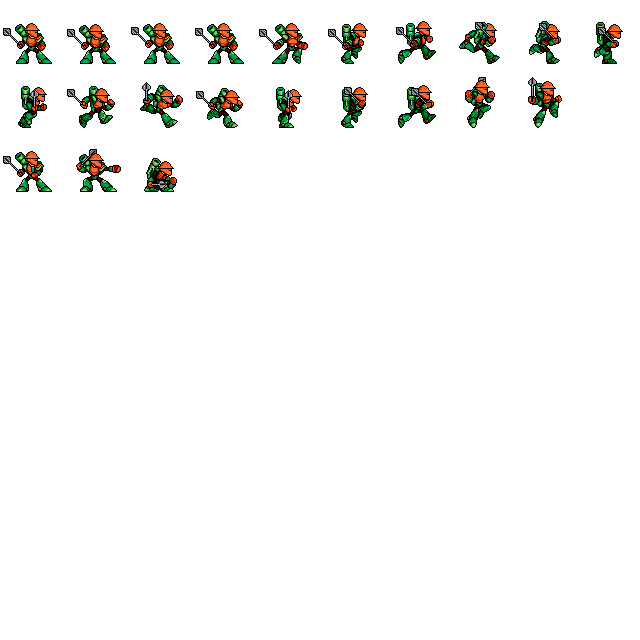
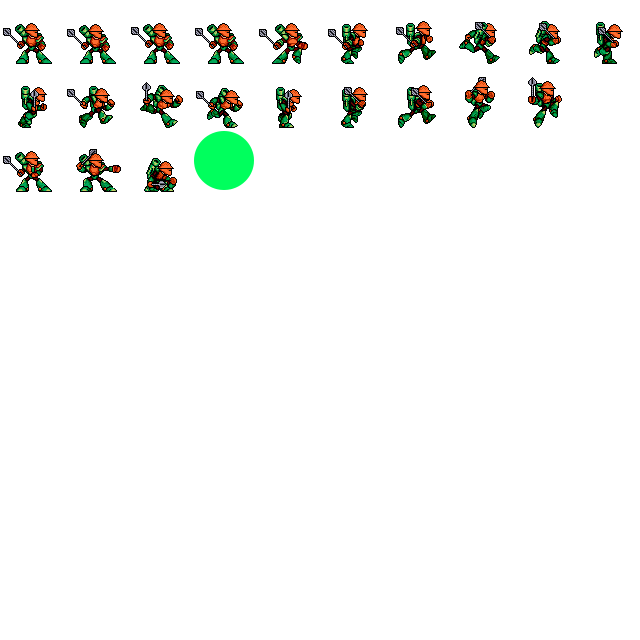
lots of changes

Changed region(s): [[0.2812, 0.1875, 0.4062, 0.3125]]

diff --git a/js/GameStates/level1.js b/js/GameStates/level1.js
@@ -90,7 +90,7 @@ for(let i=0; i<100; i++)
 	//bullets[i].img.src="images/mrt.jpg"
 	bullets[i].makeSprite(playerData)
 	bullets[i].y=-10000
-	bullets[i].changeState(`walk`)
+	bullets[i].changeState(`grenade`)
 }
 
 //console.log(bullets)
@@ -161,7 +161,7 @@ gameStates[`level1`] = function()
 			shotTimer = shotDelay
 			//console.log(`Boom`)
 
-			bullets[currentBullet].vx = 5*wiz.dir;
+			bullets[currentBullet].vx = 5*wiz.dir; //speed of projectile
 			bullets[currentBullet].world = level;
 			bullets[currentBullet].x = wiz.x-level.x + (wiz.dir * 96) ;
 			bullets[currentBullet].y = wiz.y + 20;
@@ -299,7 +299,7 @@ gameStates[`level1`] = function()
 	//Moves, checks collision and renders projectiles.
 	for(let i=0; i<bullets.length; i++)
 	{
-		if(bullets[i].overlap(stage)) bullets[i].vy+=1;
+		if(bullets[i].overlap(stage)); //bullets[i].vy+=1; //Gravity
 		bullets[i].move()
 		bullets[i].play(function(){return}).drawSprite()
 		//bullets[i].angle+=10

diff --git a/js/Data/player.js b/js/Data/player.js
@@ -88,6 +88,16 @@ var playerData ={
 				{width:64, height:64, startX:0, startY:128},
 				{width:64, height:64, startX:64, startY:128}	
 			]
+		},
+		//The crouch animation 
+		grenade:
+		{
+			fps:15,
+			cycle:false,
+			frames:
+			[
+				{width:64, height:64, startX:192, startY:128}
+			]
 		}
 	}
 		

diff --git a/js/GameStates/menu.js b/js/GameStates/menu.js
@@ -10,7 +10,7 @@ console.log(startButton.collisionPoints.right)
 
 
 var menuBackground = new GameObject();
-menuBackground.img.src = "images/mrt.jpg"
+menuBackground.img.src = "images/mrt.png"
 menuBackground.width=canvas.width
 menuBackground.height=canvas.height
 
